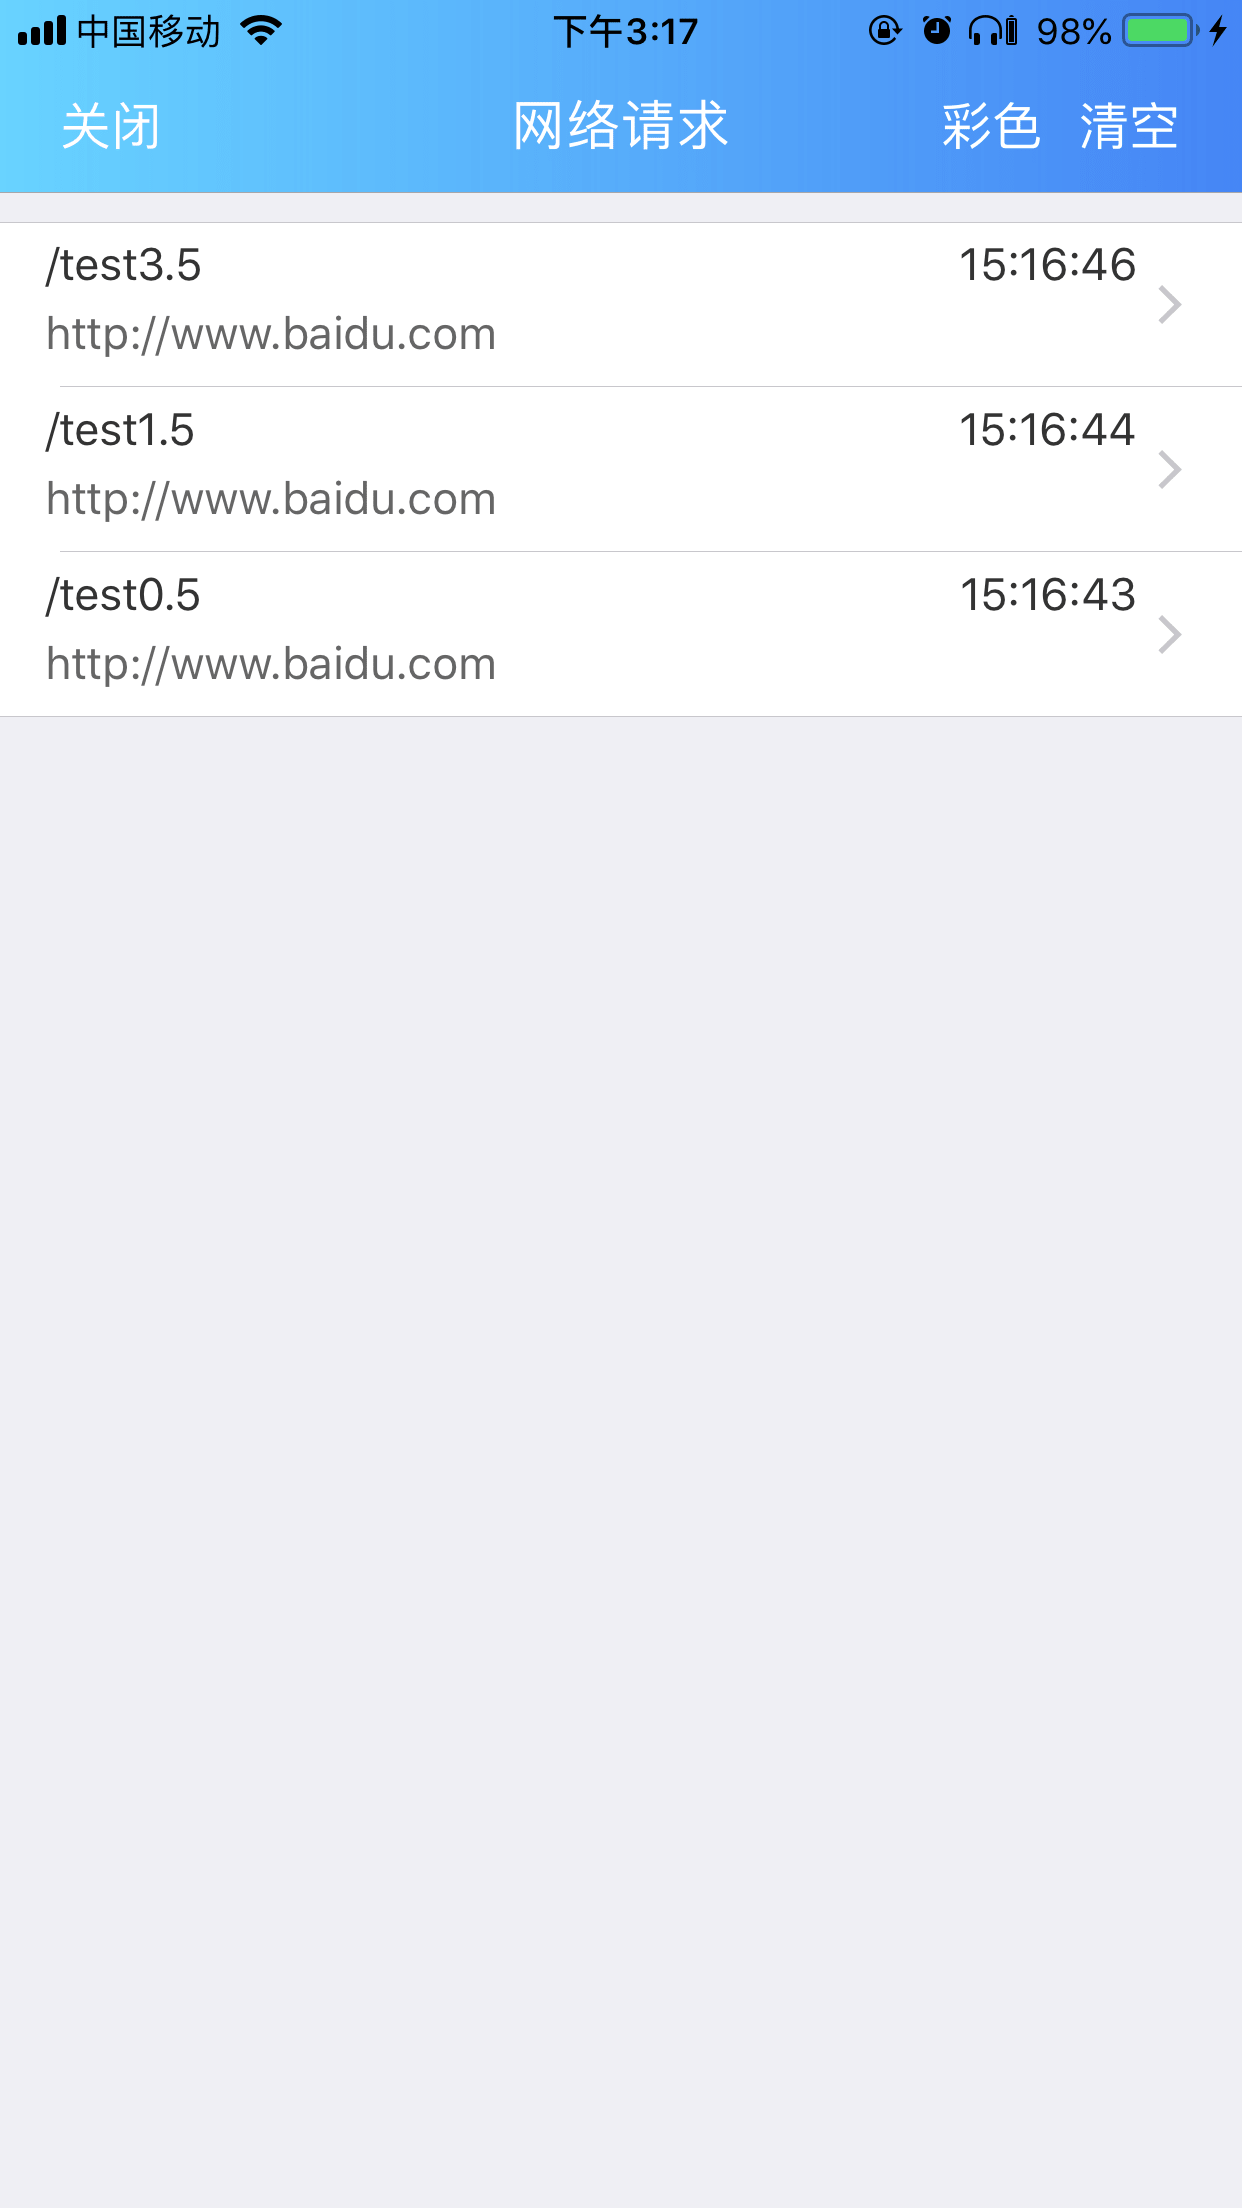
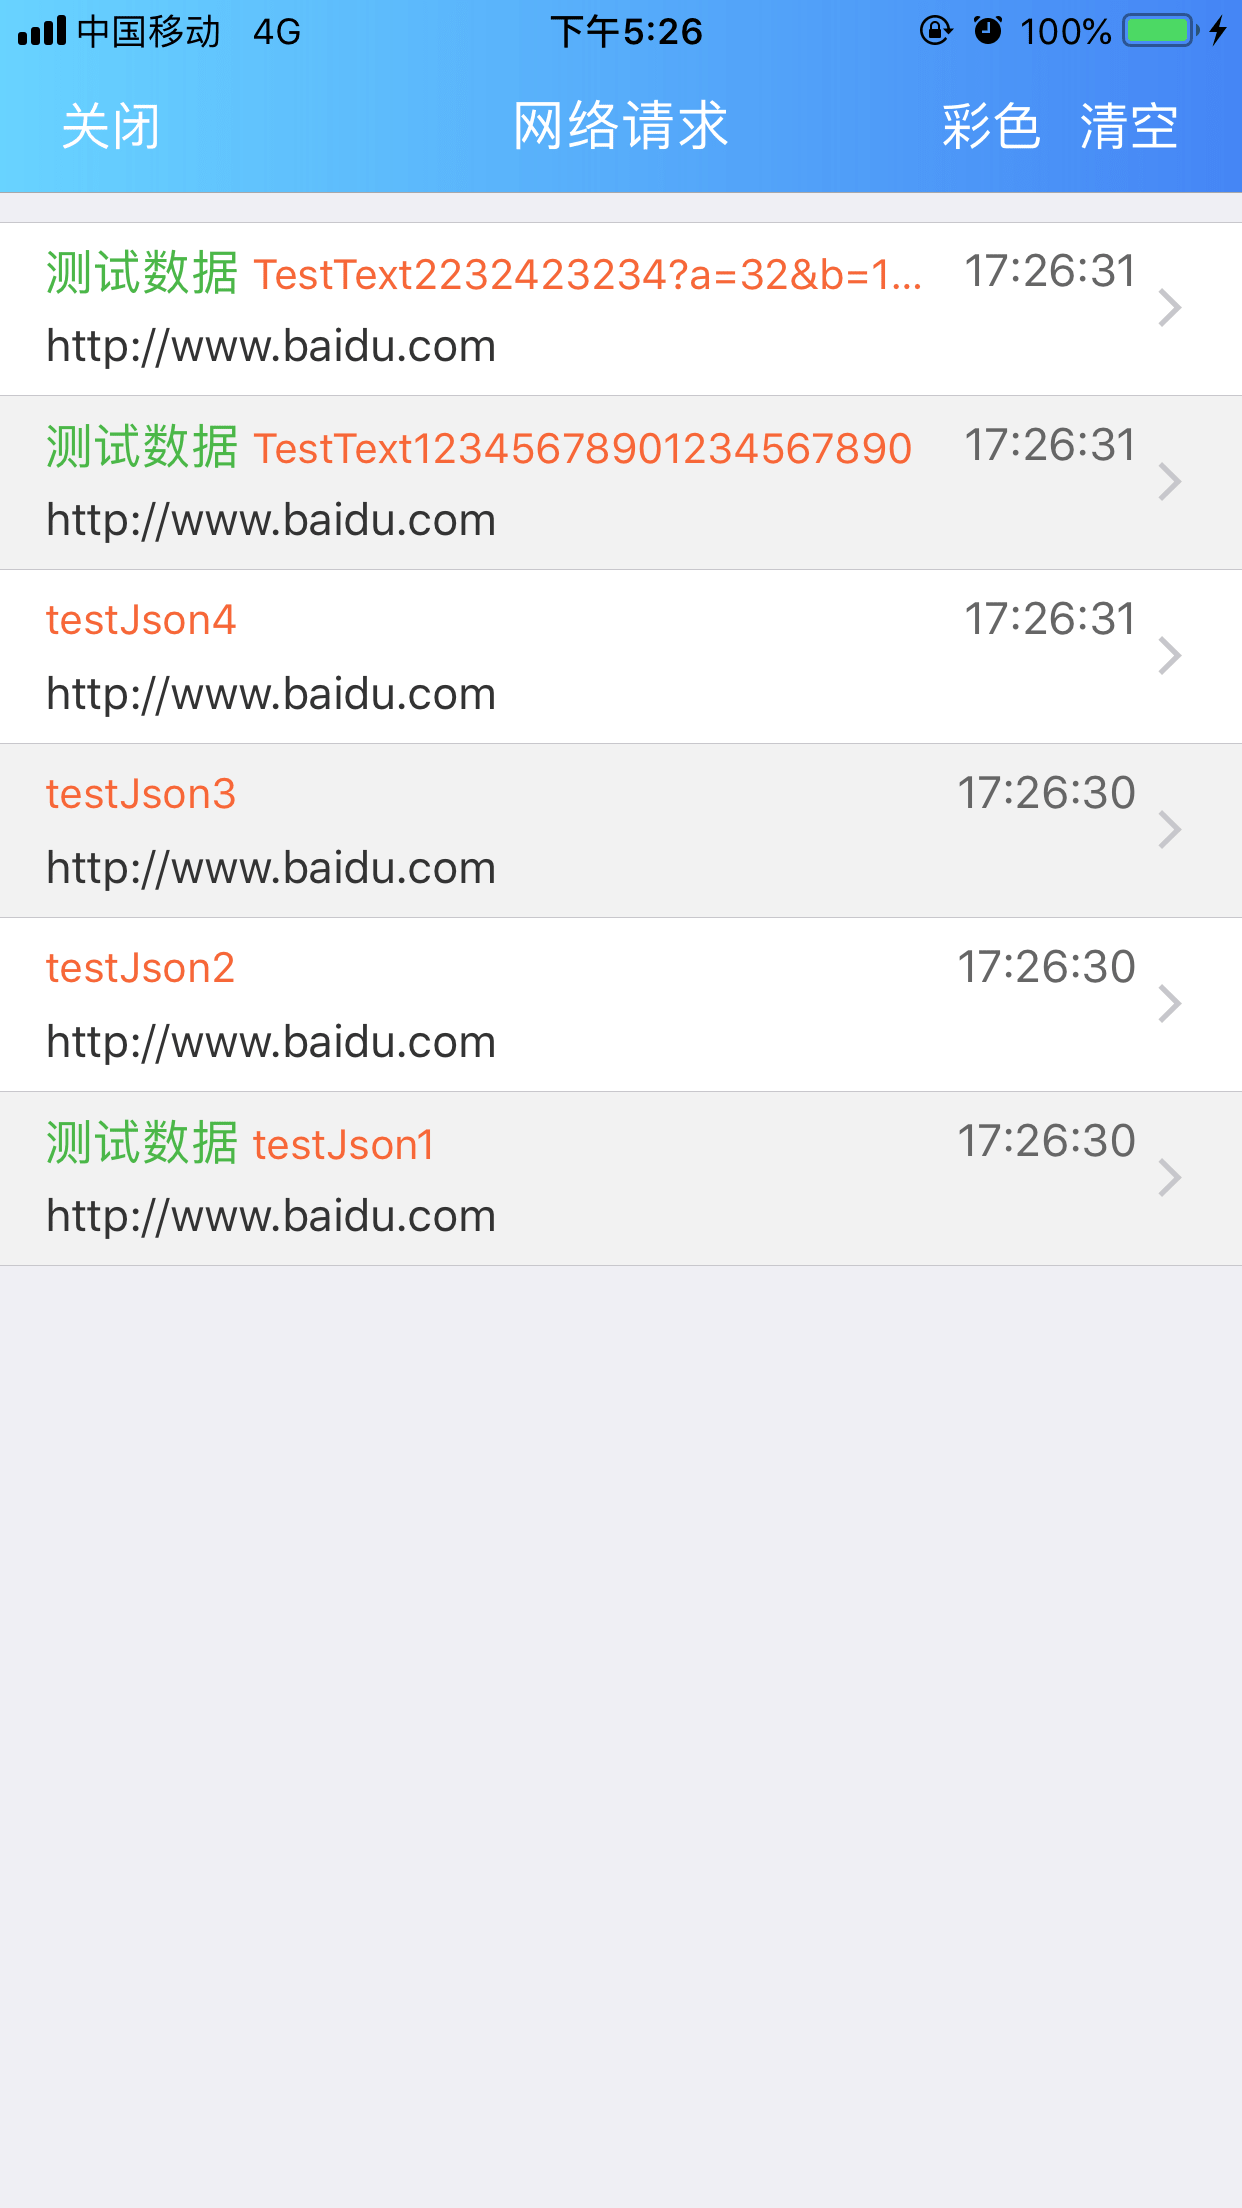
request color 和图片更新

diff --git a/PoporNetRecord/Classes/ListVC/PnrListVCPresenter.m b/PoporNetRecord/Classes/ListVC/PnrListVCPresenter.m
@@ -115,8 +115,9 @@
             
             cell.requestL.attributedText = att;
         }else{
-            cell.requestL.text = entity.request;
-            cell.requestL.font = self.config.listFontRequest;
+            cell.requestL.text      = entity.request;
+            cell.requestL.font      = self.config.listFontRequest;
+            cell.requestL.textColor = self.config.listColorRequest;
         }
         cell.timeL.text    = entity.time;
         cell.domainL.text  = entity.domain;
